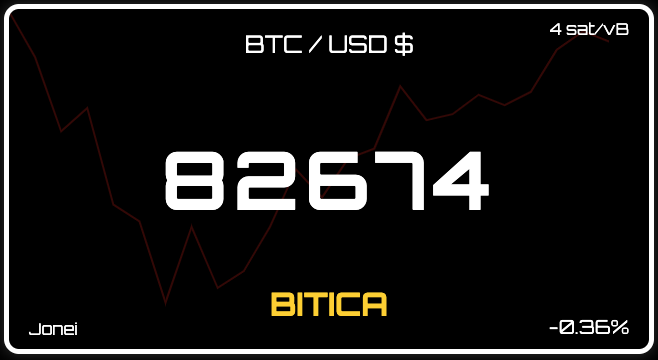
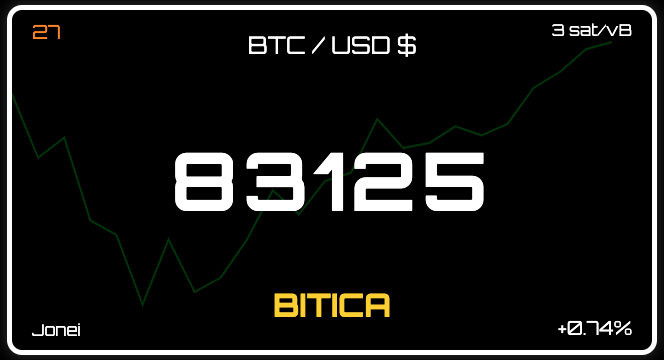
v0.1.0-beta

diff --git a/README.md b/README.md
@@ -1,16 +1,21 @@
 # Bitcoin Price Tracker
 
-O **Bitcoin Price Tracker** é uma aplicação web desenvolvida para monitorar o preço atual do Bitcoin (BTC) em dólares americanos (USD), exibir um gráfico das últimas 24 horas e fornecer informações como a taxa de transação (em sat/vB) e a variação percentual do preço. Construído com Flask, Chart.js e APIs da Binance e mempool.space, o projeto é hospedado em um container Docker e gerenciado via Portainer, com atualizações automáticas a partir do GitHub.
+O **Bitcoin Price Tracker** é uma aplicação web desenvolvida para monitorar o preço atual do Bitcoin (BTC) em dólares americanos (USD), exibir um gráfico das últimas 24 horas e fornecer informações como a taxa de transação (em sat/vB) e a variação percentual do preço. Construído com Flask, Chart.js e APIs da Binance, mempool.space e Alternative.me, o projeto é hospedado em um container Docker e gerenciado via Portainer, com atualizações automáticas a partir do GitHub.
 
-## Example
-![foto](image.png)
+![example](image.png)
 
 ## Funcionalidades
 - Exibe o preço atual do Bitcoin em tempo real.
-- Mostra um gráfico de linha das últimas 24 horas de preço.
+- Mostra um gráfico de linha das últimas 24 horas de preço, com cor dinâmica:
+  - Verde (`rgba(0, 255, 0, 1)`) para variação positiva nas últimas 24 horas.
+  - Vermelho (`rgba(255, 0, 0, 1)`) para variação negativa ou zero.
 - Apresenta a taxa de transação atual (em sat/vB).
-- Calcula e exibe a variação percentual do preço nas últimas 24 horas.
-- A cor do gráfico muda para verde quando a variação é positiva e vermelho quando é negativa ou zero.
+- Calcula e exibe a variação percentual do preço nas últimas 24 horas (com sinal "+" para variações positivas).
+- Inclui o índice de Medo e Ganância (Fear and Greed Index) no canto superior esquerdo, exibindo apenas o valor numérico (0-100) com cor dinâmica baseada nas faixas:
+  - 0-25: Vermelho escuro (`#ff0000`) - Extreme Fear
+  - 25-50: Laranja (`#ff8000`) - Fear
+  - 50-75: Verde claro (`#00cc00`) - Greed
+  - 75-100: Verde escuro (`#008000`) - Extreme Greed
 - Design futurista e responsivo.
 
 ## Pré-requisitos
@@ -24,5 +29,3 @@ O **Bitcoin Price Tracker** é uma aplicação web desenvolvida para monitorar o
    ```bash
    git clone https://github.com/joneireis/bitcoin-price-tracker.git
    cd bitcoin-price-tracker
-
-   
